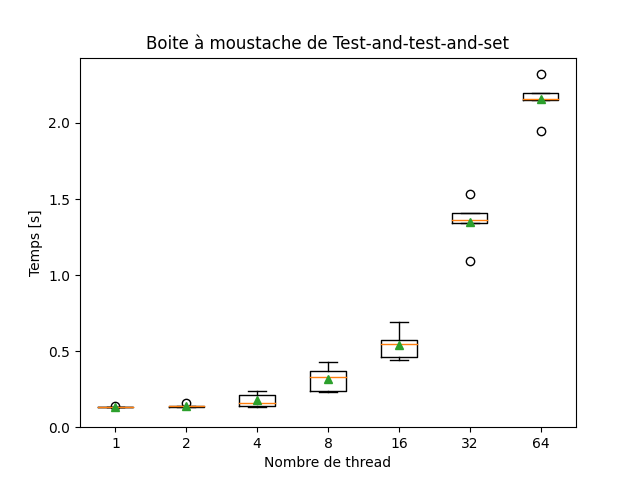
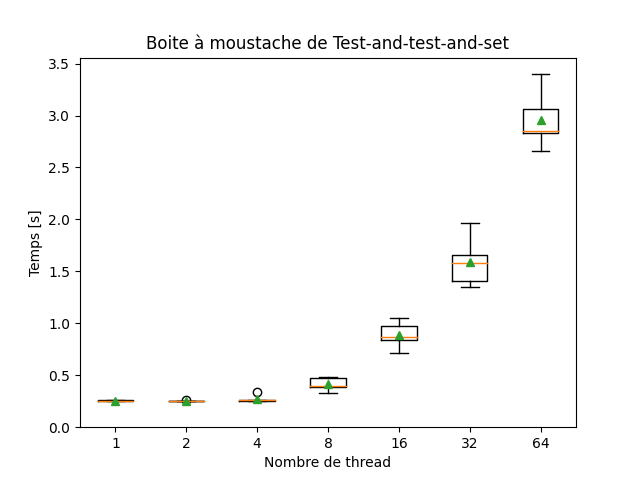
test and test and set

diff --git a/Projet_SI/Partie2/test-and-test-and-set.c b/Projet_SI/Partie2/test-and-test-and-set.c
@@ -33,13 +33,12 @@ void mutex_lock(void* lock){
     int b = 1;
     //printf("%d %d lock1\n", lock, b);
     while(b==1){
-        asm volatile("xchgl %0, %1"//%0=input,%1=output  -> échange la valeur de lock et la met dans b            
-        :"+r"(b)//input
-        :"m"(*ptr)//output
-        :"memory");
-        while(b && *ptr){
-        }
-        
+        if(*ptr==0){
+            asm volatile("xchgl %0, %1"//%0=input,%1=output  -> échange la valeur de lock et la met dans b            
+            :"+r"(b)//input
+            :"m"(*ptr)//output
+            :"memory");
+        }   
     }
     
     //printf("%d %d lock2\n", lock, b);
